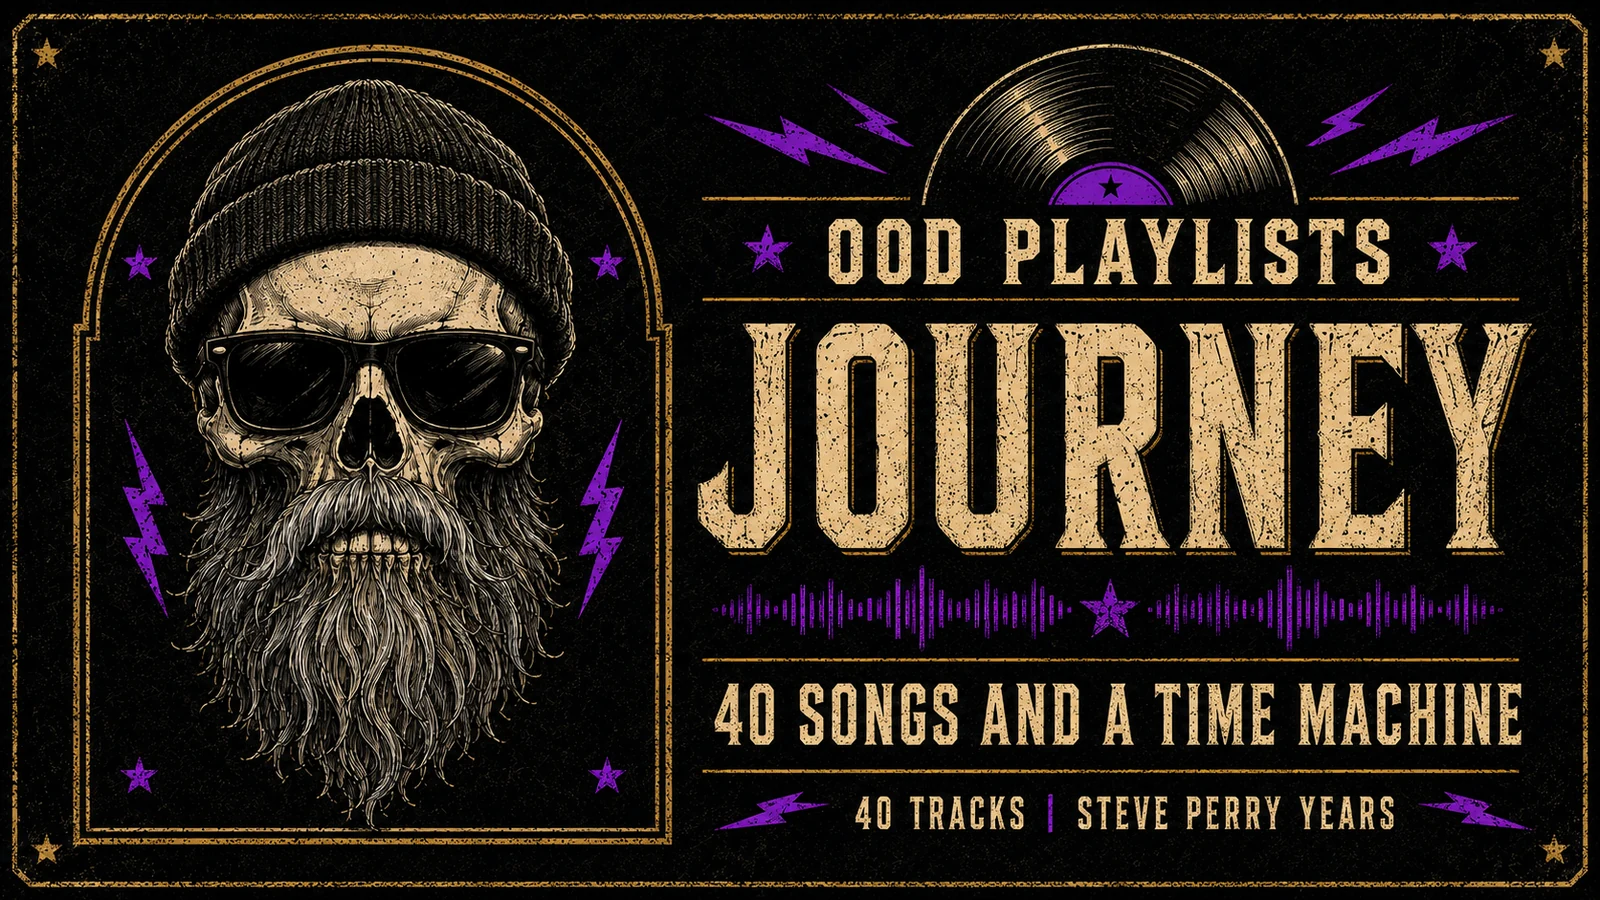
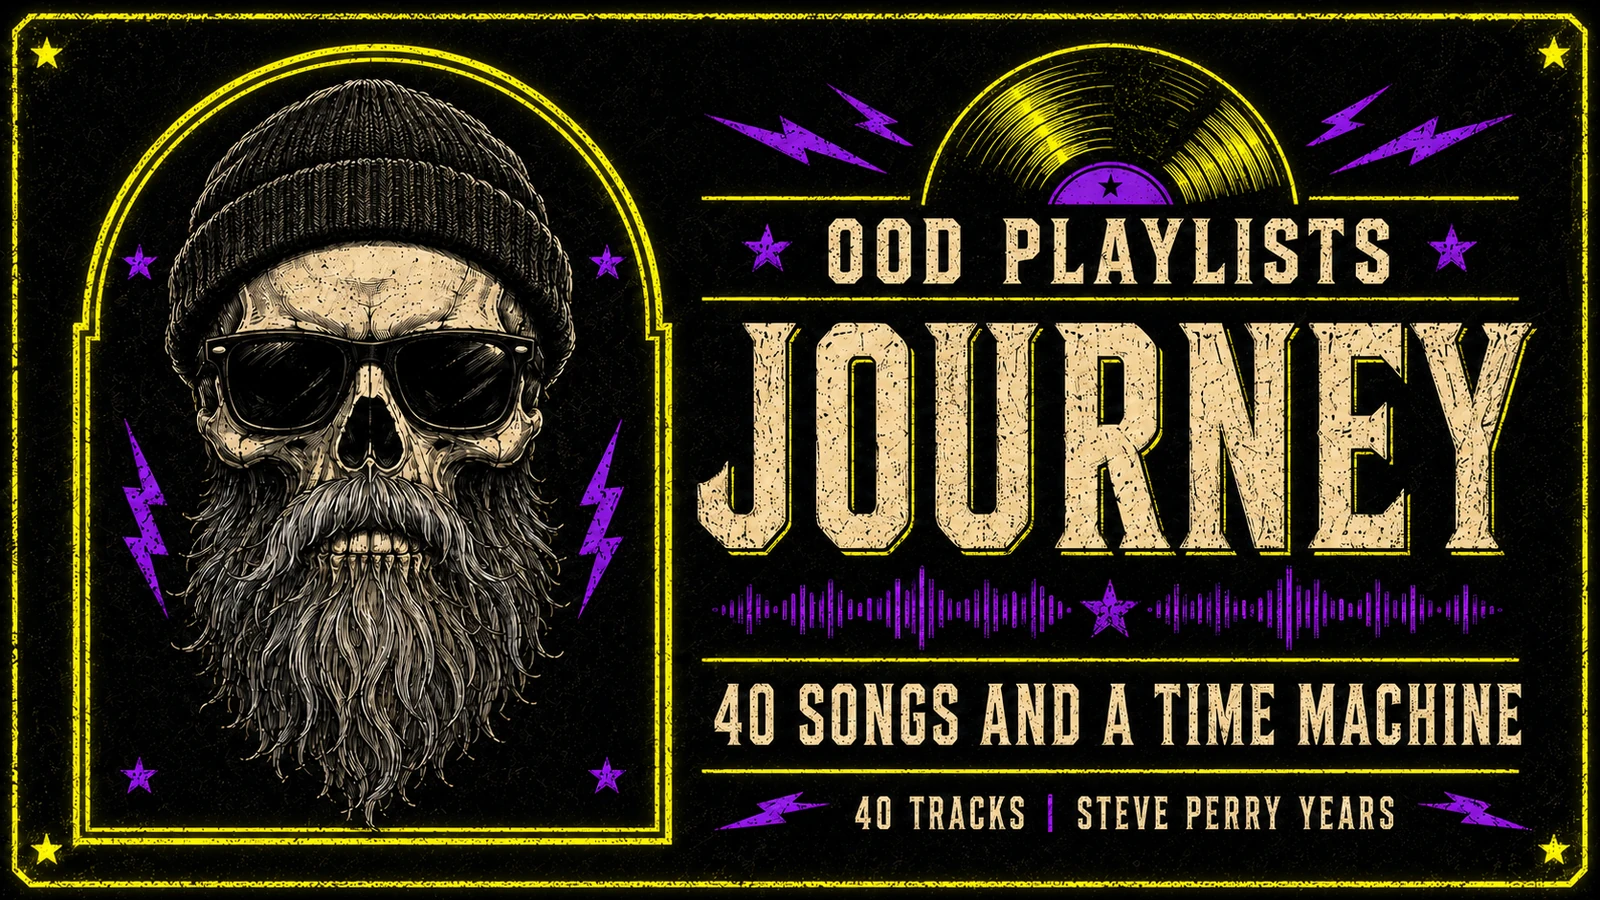
Update Journey: 40 Songs and a Time Machine

Changed region(s): [[0.0, 0.0, 1.0, 0.9956], [0.8438, 0.1244, 0.9375, 0.1867], [0.8438, 0.0933, 0.875, 0.1244]]

diff --git a/src/content/posts/journey-40-songs-and-a-time-machine/index.ts b/src/content/posts/journey-40-songs-and-a-time-machine/index.ts
@@ -15,7 +15,7 @@ const post: BlogPost = {
   publishedAt: '2026-04-22',
   status: 'Recent',
   heroImage,
-  heroAlt: 'Black, cream, gold, and neon-purple OOD Playlists banner for Journey: 40 Songs and a Time Machine, with the bearded skull mascot, a record, and waveform ornaments.',
+  heroAlt: 'Black, cream, neon-gold, and neon-purple OOD Playlists banner for Journey: 40 Songs and a Time Machine, with the bearded skull mascot, a record, and waveform ornaments.',
   cardImage,
   cardAlt: 'Pencil-sketch portrait of Steve Perry singing onstage beneath bright spotlights, with sparse purple accents and a crowd suggested below.',
   bodyHtml: `
